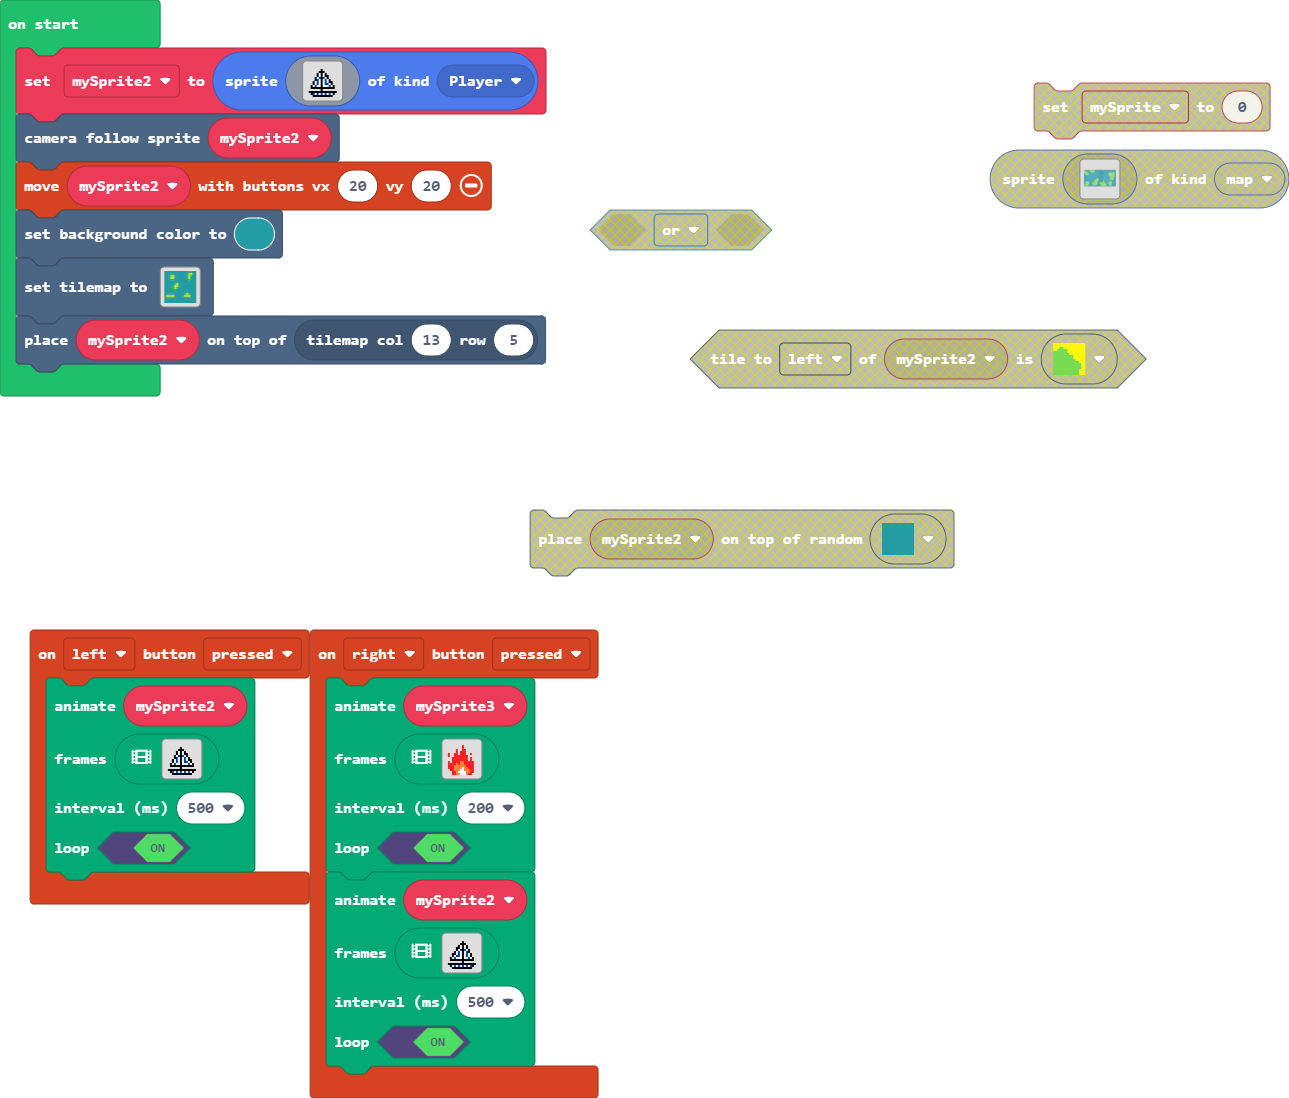
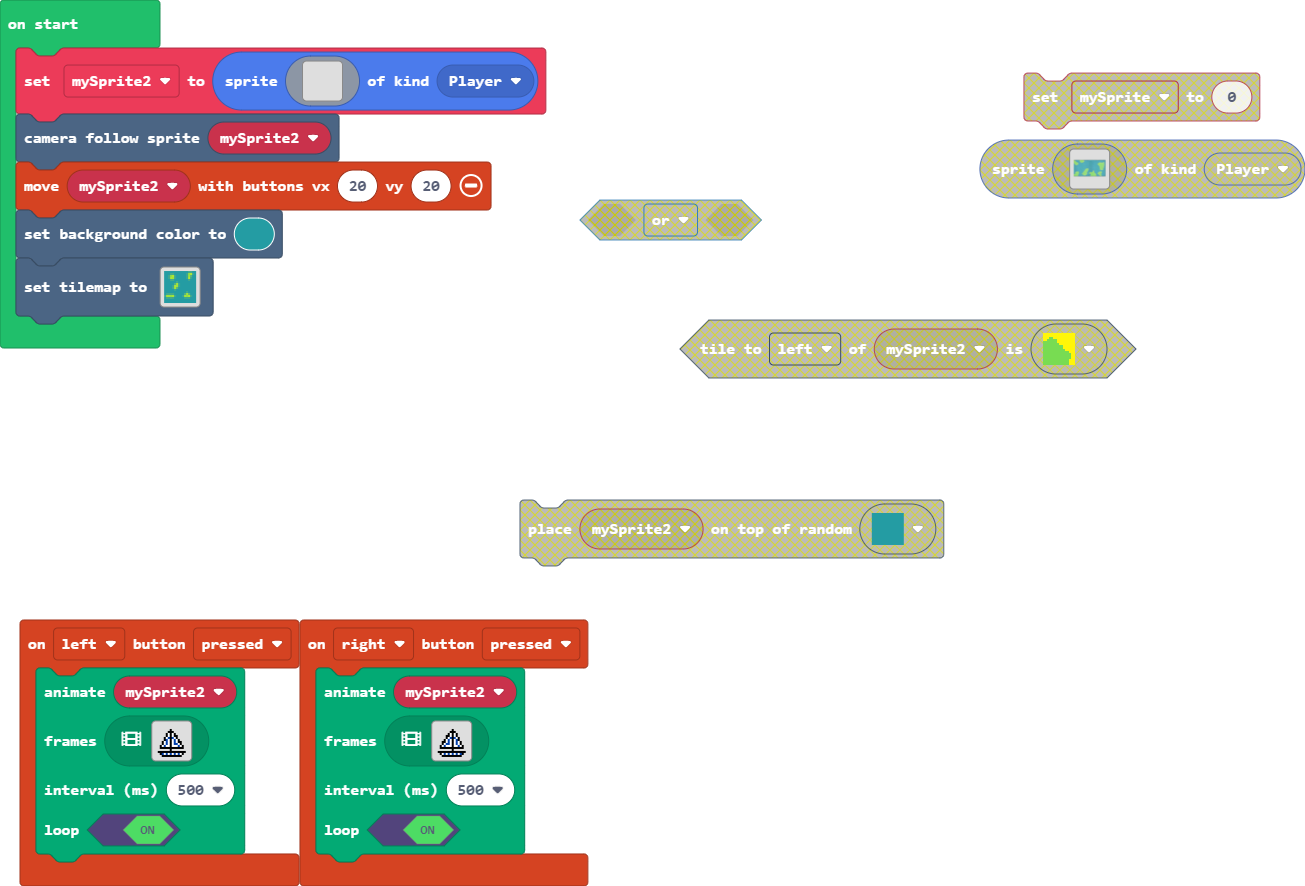
Update pxt.json, main.blocks, main.ts, tilemap.g.jres, tilemap.g.ts

diff --git a/tilemap.g.ts b/tilemap.g.ts
@@ -96,6 +96,10 @@ namespace myTiles {
     export const tile46 = image.ofBuffer(hex``);
     //% fixedInstance jres blockIdentity=images._tile
     export const tile47 = image.ofBuffer(hex``);
+    //% fixedInstance jres blockIdentity=images._tile
+    export const tile48 = image.ofBuffer(hex``);
+    //% fixedInstance jres blockIdentity=images._tile
+    export const tile49 = image.ofBuffer(hex``);
 
     helpers._registerFactory("tilemap", function(name: string) {
         switch(helpers.stringTrim(name)) {
@@ -118,25 +122,6 @@ namespace myTiles {
 . . . . . . . . . . . . . . . . 
 . . . . . . . . . . . . . . . . 
 `, [myTiles.transparency16,myTiles.tile1,myTiles.tile2], TileScale.Sixteen);
-            case "level0":
-            case "level2":return tiles.createTilemap(hex`1000100002040404040404040404040404040402060101010101010101010101010101030601010101010101010101010101010306010101010101010101010101010103060101010101010101010101010101030601010101010101010101010101010306010101010101010101010101010103060101010101010101010101010101030601010101010101010101010101010306010101010101010101010101010103060101010101010101010101010101030601010101010101010101010101010306010101010101010101010101010103060101010101010101010101010101030601010101010101010101010101010302050505050505050505050505050502`, img`
-. . . . . . . . . . . . . . . . 
-. . . . . . . . . . . . . . . . 
-. . . . . . . . . . . . . . . . 
-. . . . . . . . . . . . . . . . 
-. . . . . . . . . . . . . . . . 
-. . . . . . . . . . . . . . . . 
-. . . . . . . . . . . . . . . . 
-. . . . . . . . . . . . . . . . 
-. . . . . . . . . . . . . . . . 
-. . . . . . . . . . . . . . . . 
-. . . . . . . . . . . . . . . . 
-. . . . . . . . . . . . . . . . 
-. . . . . . . . . . . . . . . . 
-. . . . . . . . . . . . . . . . 
-. . . . . . . . . . . . . . . . 
-. . . . . . . . . . . . . . . . 
-`, [myTiles.transparency16,myTiles.tile47,myTiles.tile15,myTiles.tile21,myTiles.tile23,myTiles.tile37,myTiles.tile46], TileScale.Sixteen);
             case "level3":
[1 lines of base64/hex data omitted]
 . . . . . . . . . . . . . . . . 
@@ -156,6 +141,25 @@ namespace myTiles {
 . . . . . . . . . . . . . . . . 
 . . . . . . . . . . . . . . . . 
 `, [myTiles.transparency16,myTiles.tile15,myTiles.tile17,myTiles.tile20,myTiles.tile21,myTiles.tile22,myTiles.tile23,myTiles.tile24,myTiles.tile25,myTiles.tile26,myTiles.tile27,myTiles.tile30,myTiles.tile31,myTiles.tile29,myTiles.tile18,myTiles.tile32,myTiles.tile33,myTiles.tile34,myTiles.tile35,myTiles.tile36,myTiles.tile37,myTiles.tile38,myTiles.tile39,myTiles.tile40,myTiles.tile41,myTiles.tile42,myTiles.tile43,myTiles.tile44,myTiles.tile45,myTiles.tile46], TileScale.Sixteen);
+            case "level 1":
+            case "level2":return tiles.createTilemap(hex`1000100002040404040404040404040404040402060101010101010101010101010101030601010101010101010101010101010306010101010101010101010101010103060101010101010101010101010101030601010101010101010101010101010306010101010101010101010101010103060101010101010101010101010101030601010101010101010101010101010306010101010101010101010101010103060101010101010101010101010101030601010101010101010101010101010306010101010101010101010101010103060101010101010101010101010101030601010101010101010101010101010302050505050505050505050505050502`, img`
+. . . . . . . . . . . . . . . . 
+. . . . . . . . . . . . . . . . 
+. . . . . . . . . . . . . . . . 
+. . . . . . . . . . . . . . . . 
+. . . . . . . . . . . . . . . . 
+. . . . . . . . . . . . . . . . 
+. . . . . . . . . . . . . . . . 
+. . . . . . . . . . . . . . . . 
+. . . . . . . . . . . . . . . . 
+. . . . . . . . . . . . . . . . 
+. . . . . . . . . . . . . . . . 
+. . . . . . . . . . . . . . . . 
+. . . . . . . . . . . . . . . . 
+. . . . . . . . . . . . . . . . 
+. . . . . . . . . . . . . . . . 
+. . . . . . . . . . . . . . . . 
+`, [myTiles.transparency16,myTiles.tile47,myTiles.tile15,myTiles.tile21,myTiles.tile23,myTiles.tile37,myTiles.tile46], TileScale.Sixteen);
         }
         return null;
     })
@@ -257,6 +261,10 @@ namespace myTiles {
             case "tile46":return tile46;
             case "myTile44":
             case "tile47":return tile47;
+            case "mountain 1L":
+            case "tile48":return tile48;
+            case "myTile46":
+            case "tile49":return tile49;
         }
         return null;
     })

diff --git a/main.ts b/main.ts
@@ -1,5 +1,5 @@
 namespace SpriteKind {
-    export const map = SpriteKind.create()
+    export const map2 = SpriteKind.create()
 }
 controller.left.onEvent(ControllerButtonEvent.Pressed, function () {
     animation.runImageAnimation(
@@ -10,13 +10,6 @@ controller.left.onEvent(ControllerButtonEvent.Pressed, function () {
     )
 })
 controller.right.onEvent(ControllerButtonEvent.Pressed, function () {
-    let mySprite3: Sprite = null
-    animation.runImageAnimation(
-    mySprite3,
-    assets.animation`myAnim`,
-    200,
-    true
-    )
     animation.runImageAnimation(
     mySprite2,
     assets.animation`BoatAnimationR`,
@@ -25,9 +18,25 @@ controller.right.onEvent(ControllerButtonEvent.Pressed, function () {
     )
 })
 let mySprite2: Sprite = null
-mySprite2 = sprites.create(assets.image`myImage1`, SpriteKind.Player)
+mySprite2 = sprites.create(img`
+    . . . . . . . . . . . . . . . . 
+    . . . . . . . . . . . . . . . . 
+    . . . . . . . . . . . . . . . . 
+    . . . . . . . . . . . . . . . . 
+    . . . . . . . . . . . . . . . . 
+    . . . . . . . . . . . . . . . . 
+    . . . . . . . . . . . . . . . . 
+    . . . . . . . . . . . . . . . . 
+    . . . . . . . . . . . . . . . . 
+    . . . . . . . . . . . . . . . . 
+    . . . . . . . . . . . . . . . . 
+    . . . . . . . . . . . . . . . . 
+    . . . . . . . . . . . . . . . . 
+    . . . . . . . . . . . . . . . . 
+    . . . . . . . . . . . . . . . . 
+    . . . . . . . . . . . . . . . . 
+    `, SpriteKind.Player)
 scene.cameraFollowSprite(mySprite2)
 controller.moveSprite(mySprite2, 20, 20)
 scene.setBackgroundColor(6)
 tiles.setTilemap(tilemap`level3`)
-tiles.placeOnTile(mySprite2, tiles.getTileLocation(13, 5))
